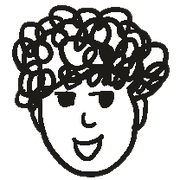
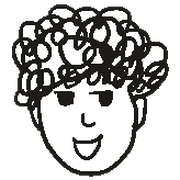
Add files via upload

diff --git a/css/style.css b/css/style.css
@@ -188,9 +188,15 @@ button.slot:hover{border-color:var(--coral)}
 @media (max-width:480px){.slot{width:46px;height:46px}.slot img{width:28px;height:28px}.code-sym{width:52px;height:52px}}
 .code-game img.sym-figur{transform:none}
 .code-game img.sym-tower{transform:scale(.9)}
-.spot.egg.outlined[data-open="easteregg4"]{filter:drop-shadow(0 2px 3px rgba(40,25,5,.35))}
+.spot.egg.outlined[data-open="easteregg4"]:not(:has(img:hover)):not(:focus-visible){filter:drop-shadow(0 2px 3px rgba(40,25,5,.35))}
 .code-sym.out img{filter:grayscale(1);opacity:.35}
 .code-sym.out{border-style:dashed;border-color:var(--line)}
 .cards{align-items:start}
 .proj.flyer .ph{aspect-ratio:auto;background:none;box-shadow:none}
 .proj.flyer .ph img{height:auto;object-fit:contain;box-shadow:0 1px 3px rgba(0,0,0,.18)}
+.mobile-tip{display:none;max-width:860px;margin:10px auto 0;padding:8px 12px;font-size:13px;line-height:1.45;color:var(--muted);background:var(--paper-2);text-align:center}
+@media (max-width:900px),(pointer:coarse){.mobile-tip{display:block}}
+@media (max-width:520px){
+  .code-pal{flex-wrap:nowrap;gap:4px;width:100%}
+  .code-sym{flex:1 1 0;min-width:0;width:auto;height:auto;aspect-ratio:1;padding:3px}
+}

diff --git a/index.html b/index.html
@@ -15,6 +15,7 @@
 <body>
 <div class="wrap">
   <div class="scroller" id="scroller"><div class="stage" id="stage"></div></div>
+  <p class="mobile-tip">Tipp: Am Computer kommt die Seite am besten zur Geltung. Auf dem Handy einfach seitlich wischen, um alles zu sehen.</p>
 </div>
 
 <div class="veil" id="veil" hidden>
